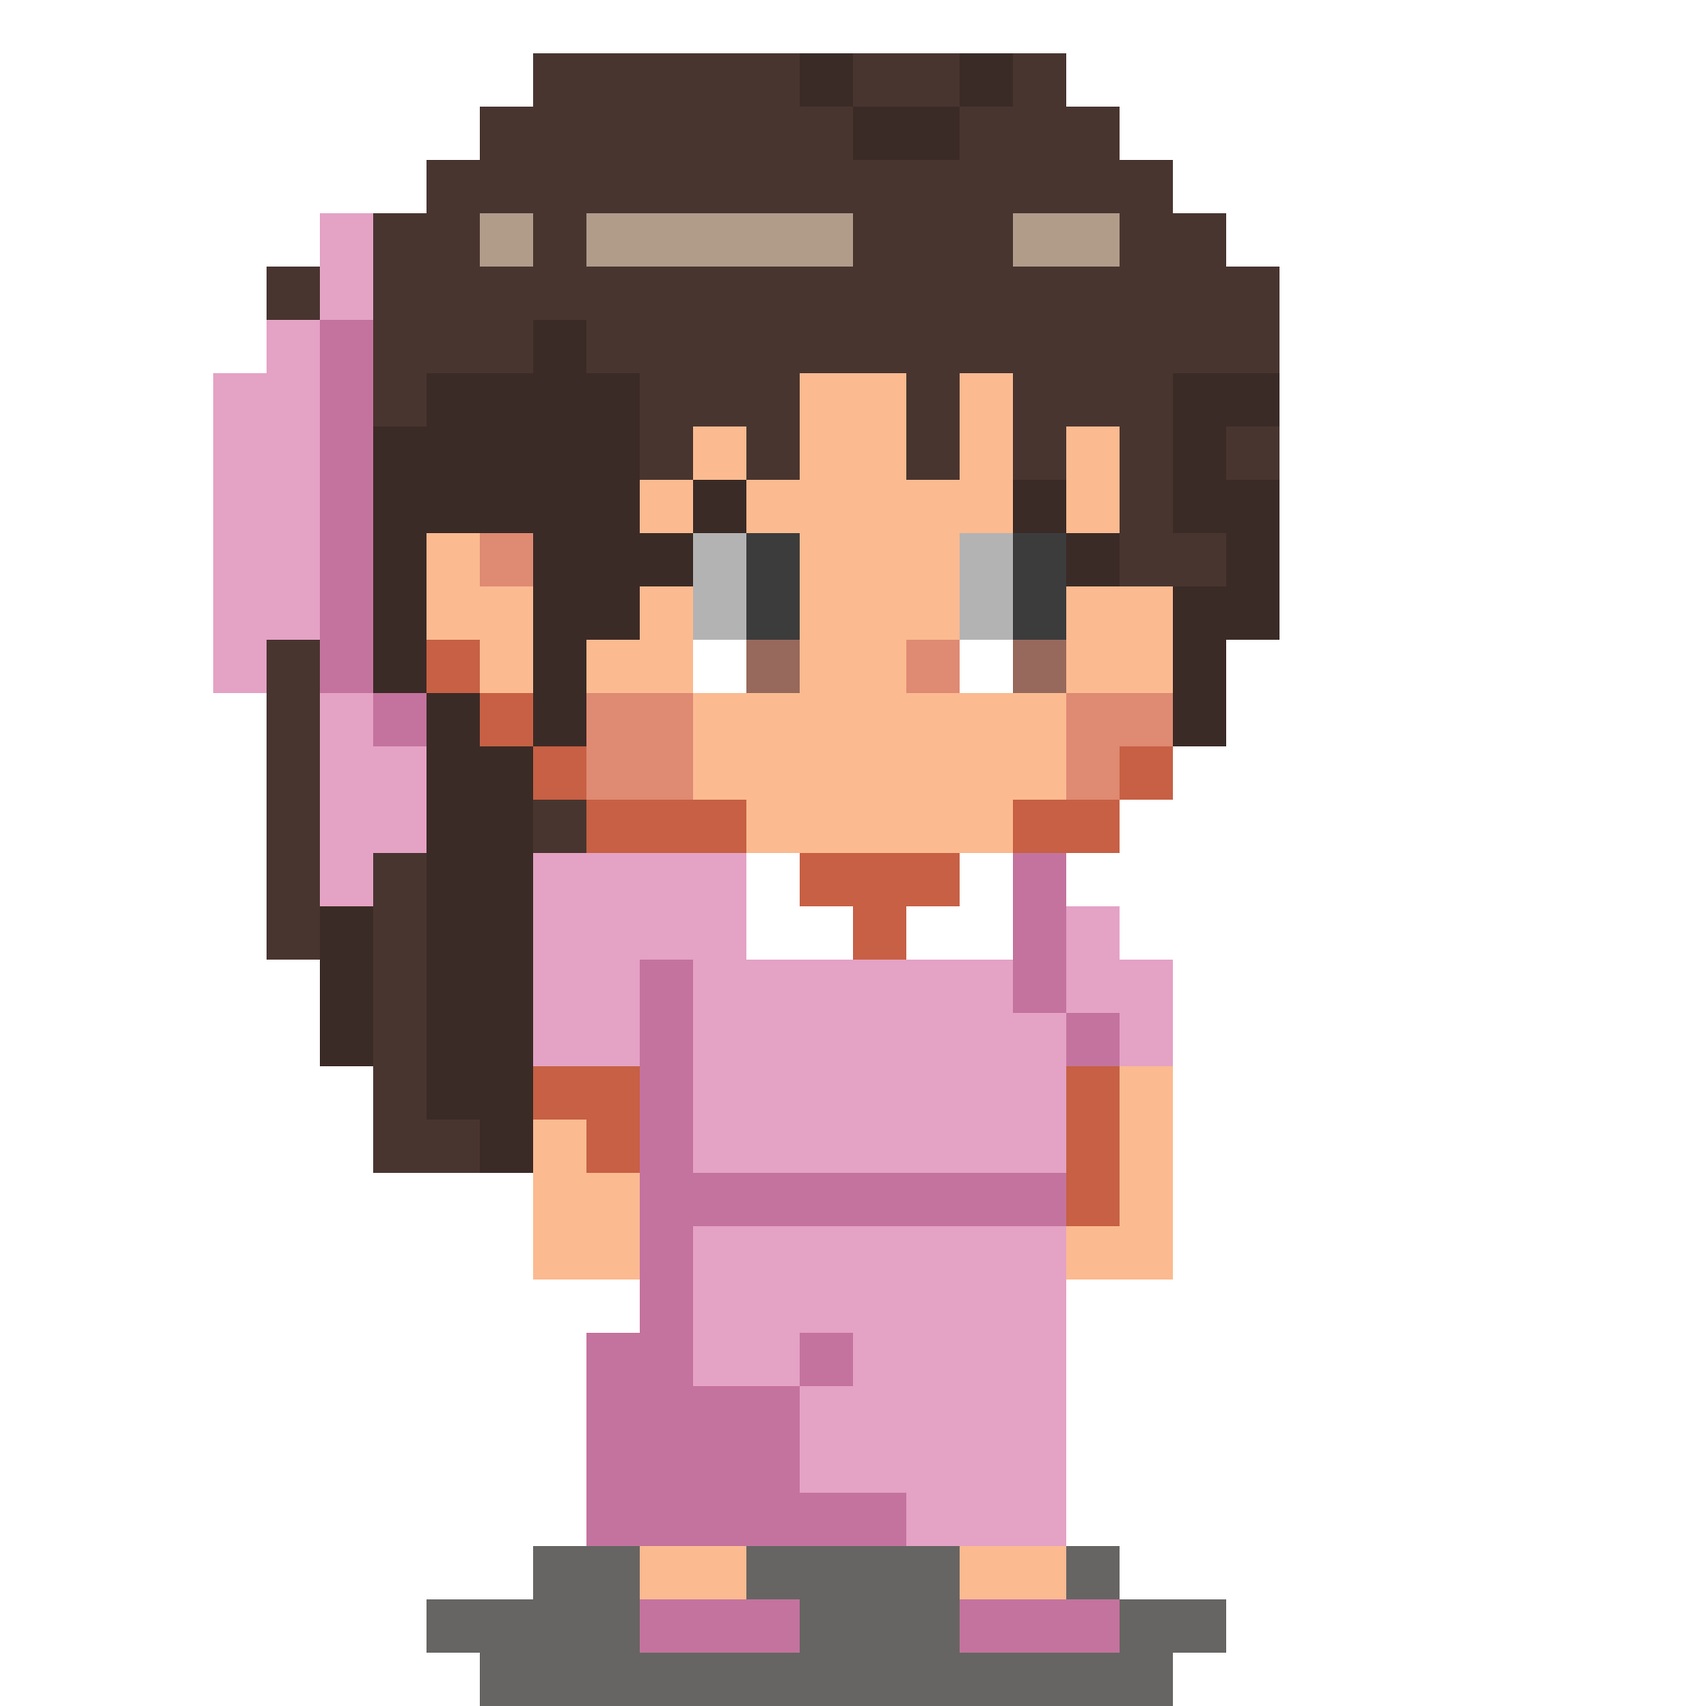
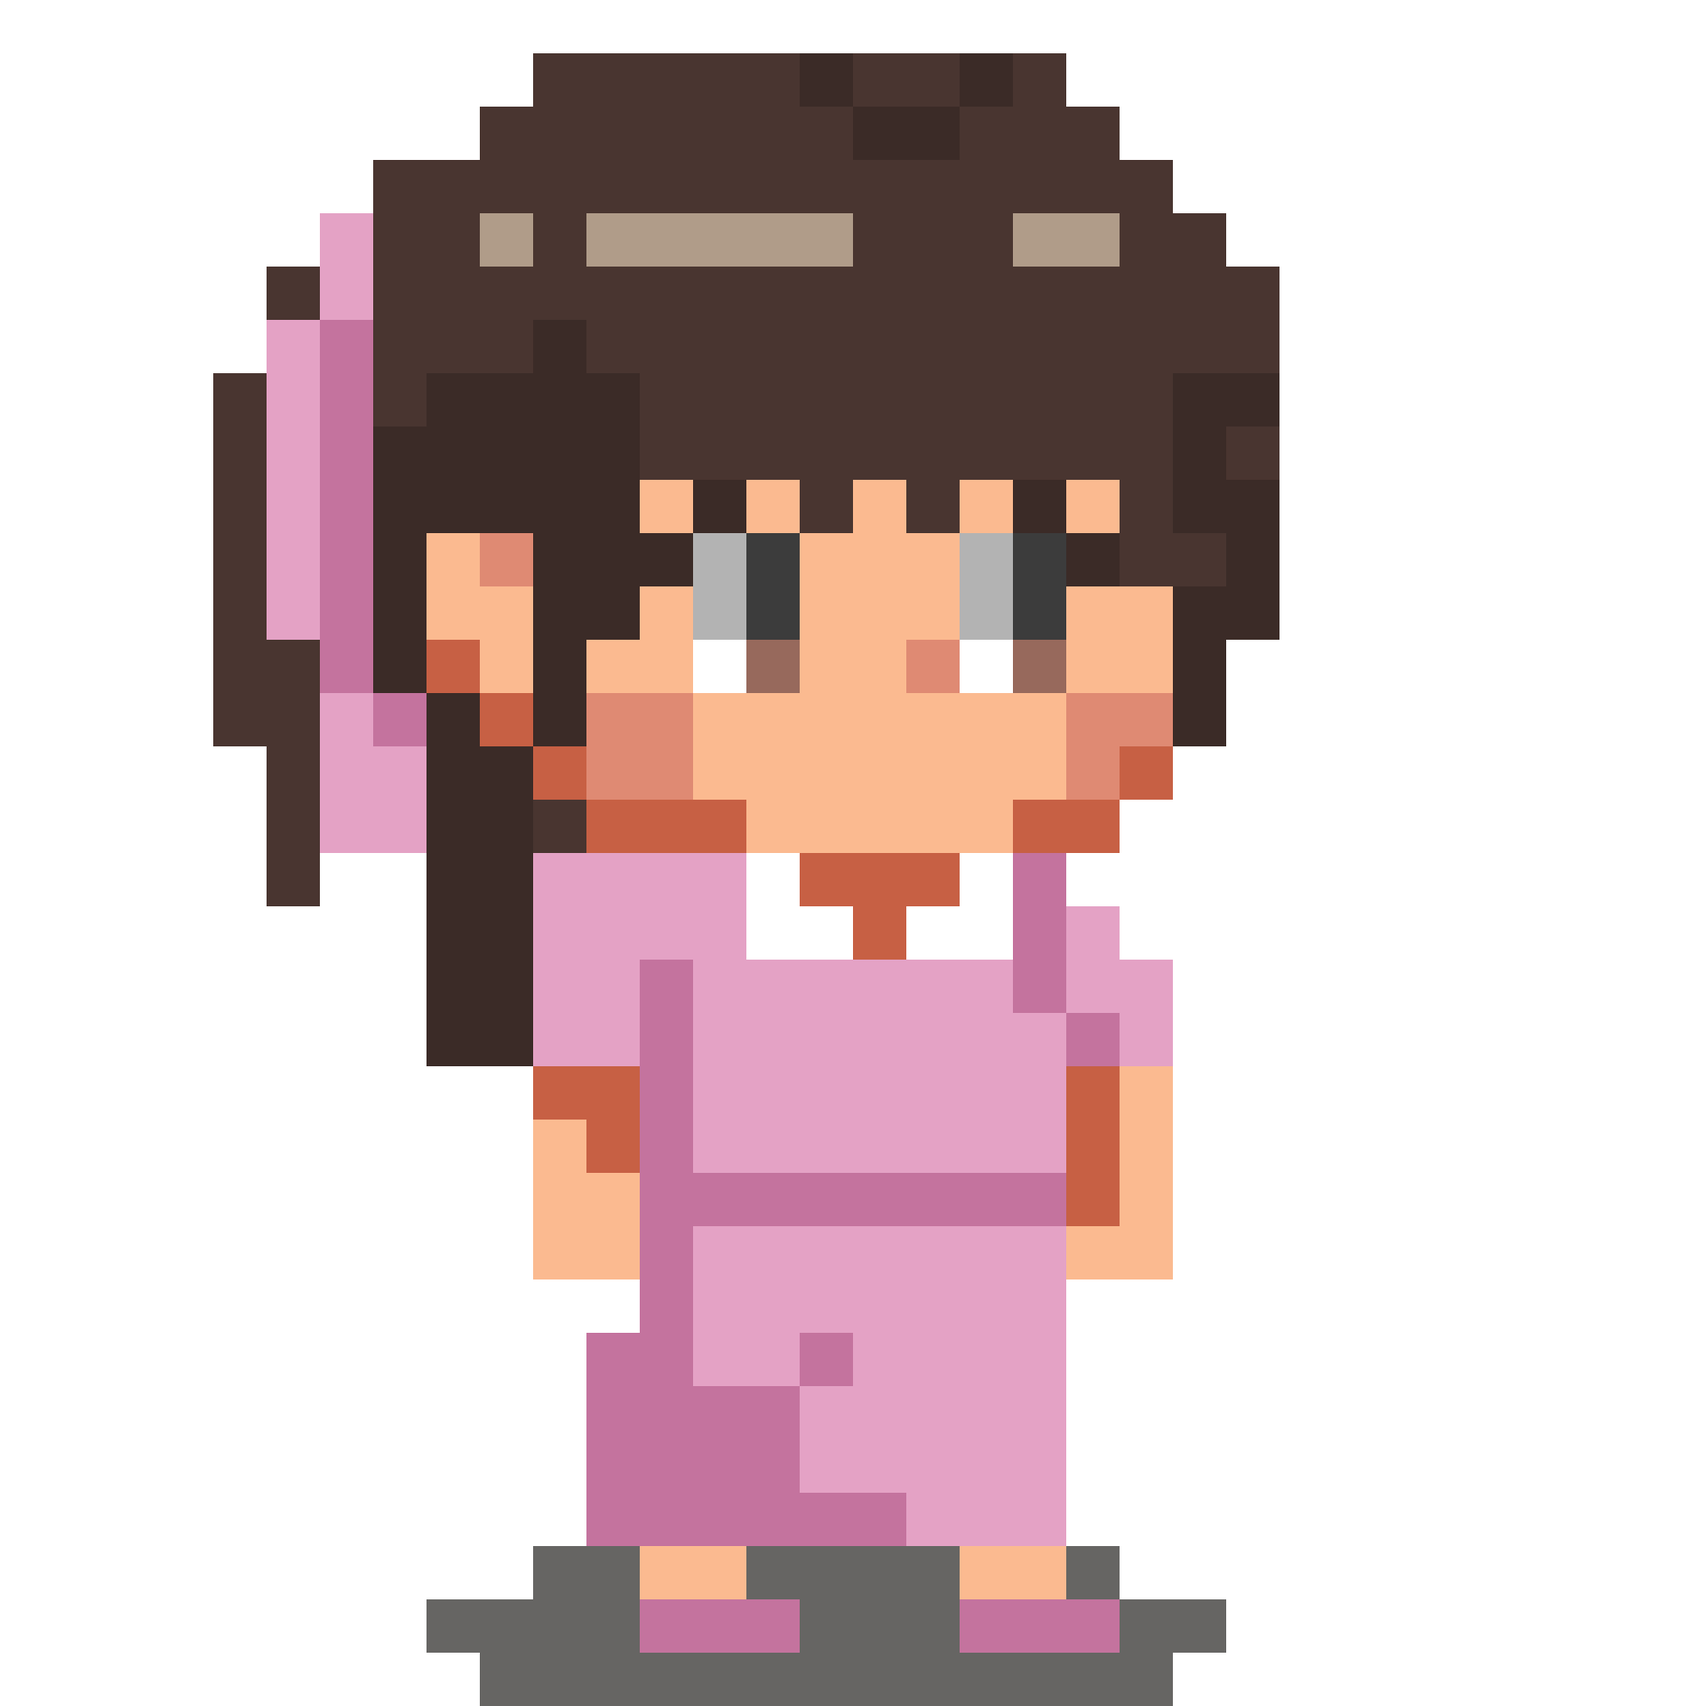
update song, handle click

diff --git a/Mob.java b/Mob.java
@@ -88,9 +88,9 @@ public class Mob {
         BufferedImage img = GameConstants.getImage(imageName);
         if (img != null) {
             g.drawImage(img, cx - s / 2, cy - s / 2 -7 , s, s, null);
-        } else {
+        } /*else {
             drawShape(g, cx, cy, r);
-        }
+        }*/
 
         Composite oldComposite = g.getComposite();
 
@@ -136,7 +136,7 @@ public class Mob {
         g.fillRect(cx - bw / 2, cy - r - 10, (int) (bw * ratio), 4);
 
         if (special || type.isBoss()) {                        // show names on bosses / special map
-            g.setFont(new Font("SansSerif", Font.BOLD, 11));
+            g.setFont(GameConstants.GAME_FONT.deriveFont(Font.PLAIN, 11f));
             FontMetrics fm = g.getFontMetrics();
             String n = getName();
             g.setColor(Color.BLACK);
@@ -145,9 +145,9 @@ public class Mob {
             g.drawString(n, cx - fm.stringWidth(n) / 2, cy - r - 15);
         }
     }
-
-    // default drawing when the PNG is missing
-    private void drawShape(Graphics2D g, int cx, int cy, int r) {
+/*
+// default drawing when the PNG is missing
+private void drawShape(Graphics2D g, int cx, int cy, int r) {
         Color body = type.getColor();
         switch (type) {
             case GOBLIN:
@@ -160,19 +160,19 @@ public class Mob {
                 g.drawOval(cx - r, cy - r, 2 * r, 2 * r);
                 eyes(g, cx, cy, r, Color.YELLOW);
                 break;
-            case WOLF:
-                g.setColor(body.darker());
-                g.fillPolygon(new int[]{cx - r + 1, cx - r / 2, cx - 2}, new int[]{cy - r / 2, cy - r - 7, cy - r / 2}, 3);
-                g.fillPolygon(new int[]{cx + 2, cx + r / 2, cx + r - 1}, new int[]{cy - r / 2, cy - r - 7, cy - r / 2}, 3);
-                g.setColor(body);
-                g.fillOval(cx - r - 3, cy - r + 3, 2 * r + 6, 2 * r - 4);
-                g.setColor(Color.BLACK);
-                g.drawOval(cx - r - 3, cy - r + 3, 2 * r + 6, 2 * r - 4);
-                eyes(g, cx, cy + 2, r, Color.RED);
-                break;
-            case BAT:
-                int flap = (int) (Math.sin(System.currentTimeMillis() / 70.0) * 5);
-                g.setColor(body.darker());
+                case WOLF:
+                    g.setColor(body.darker());
+                    g.fillPolygon(new int[]{cx - r + 1, cx - r / 2, cx - 2}, new int[]{cy - r / 2, cy - r - 7, cy - r / 2}, 3);
+                    g.fillPolygon(new int[]{cx + 2, cx + r / 2, cx + r - 1}, new int[]{cy - r / 2, cy - r - 7, cy - r / 2}, 3);
+                    g.setColor(body);
+                    g.fillOval(cx - r - 3, cy - r + 3, 2 * r + 6, 2 * r - 4);
+                    g.setColor(Color.BLACK);
+                    g.drawOval(cx - r - 3, cy - r + 3, 2 * r + 6, 2 * r - 4);
+                    eyes(g, cx, cy + 2, r, Color.RED);
+                    break;
+                    case BAT:
+                        int flap = (int) (Math.sin(System.currentTimeMillis() / 70.0) * 5);
+                        g.setColor(body.darker());
                 g.fillPolygon(new int[]{cx, cx - r - 9, cx - r - 3, cx - r / 2}, new int[]{cy, cy - 6 + flap, cy + 5, cy + 3}, 4);
                 g.fillPolygon(new int[]{cx, cx + r + 9, cx + r + 3, cx + r / 2}, new int[]{cy, cy - 6 + flap, cy + 5, cy + 3}, 4);
                 g.setColor(body);
@@ -183,61 +183,62 @@ public class Mob {
                 g.fillOval(cx - 4, cy - 3, 3, 3);
                 g.fillOval(cx + 1, cy - 3, 3, 3);
                 break;
-            case GOLEM:
-                g.setColor(body);
-                g.fillRoundRect(cx - r, cy - r, 2 * r, 2 * r, 10, 10);
-                g.setColor(body.darker().darker());
-                g.drawRoundRect(cx - r, cy - r, 2 * r, 2 * r, 10, 10);
-                g.drawLine(cx - r / 2, cy + r / 3, cx, cy + r / 2);
-                g.drawLine(cx + r / 3, cy - r / 2, cx + r / 2, cy);
-                eyes(g, cx, cy, r, Color.ORANGE);
-                break;
-            case MINI_BOSS:
-                g.setColor(Color.WHITE);
-                g.fillPolygon(new int[]{cx - r + 3, cx - r - 5, cx - r / 3}, new int[]{cy - r / 2, cy - r - 10, cy - r + 2}, 3);
-                g.fillPolygon(new int[]{cx + r - 3, cx + r + 5, cx + r / 3}, new int[]{cy - r / 2, cy - r - 10, cy - r + 2}, 3);
-                g.setColor(body);
-                g.fillOval(cx - r, cy - r, 2 * r, 2 * r);
-                g.setColor(Color.BLACK);
-                g.drawOval(cx - r, cy - r, 2 * r, 2 * r);
-                eyes(g, cx, cy, r, Color.YELLOW);
-                g.drawLine(cx - r / 2 - 3, cy - r / 2 - 2, cx - 3, cy - r / 3);
-                g.drawLine(cx + r / 2 + 3, cy - r / 2 - 2, cx + 3, cy - r / 3);
-                break;
-            case BOSS:
-                g.setColor(body);
-                g.fillOval(cx - r, cy - r, 2 * r, 2 * r);
-                g.setColor(Color.BLACK);
-                g.drawOval(cx - r, cy - r, 2 * r, 2 * r);
-                g.setColor(GameConstants.GOLD);
-                g.fillPolygon(new int[]{cx - r / 2 - 4, cx - r / 2, cx - r / 4, cx, cx + r / 4, cx + r / 2, cx + r / 2 + 4},
-                        new int[]{cy - r + 4, cy - r - 10, cy - r - 2, cy - r - 12, cy - r - 2, cy - r - 10, cy - r + 4}, 7);
-                eyes(g, cx, cy, r, Color.RED);
-                break;
-        }
-    }
-
-    private void eyes(Graphics2D g, int cx, int cy, int r, Color c) {
-        int e = Math.max(4, r / 3);
-        g.setColor(c);
-        g.fillOval(cx - r / 2 - e / 2 + 1, cy - r / 4 - e / 2, e, e);
-        g.fillOval(cx + r / 2 - e / 2 - 1, cy - r / 4 - e / 2, e, e);
-        g.setColor(Color.BLACK);
-        g.fillOval(cx - r / 2, cy - r / 4 - 1, 2, 2);
-        g.fillOval(cx + r / 2 - 2, cy - r / 4 - 1, 2, 2);
-    }
+                case GOLEM:
+                    g.setColor(body);
+                    g.fillRoundRect(cx - r, cy - r, 2 * r, 2 * r, 10, 10);
+                    g.setColor(body.darker().darker());
+                    g.drawRoundRect(cx - r, cy - r, 2 * r, 2 * r, 10, 10);
+                    g.drawLine(cx - r / 2, cy + r / 3, cx, cy + r / 2);
+                    g.drawLine(cx + r / 3, cy - r / 2, cx + r / 2, cy);
+                    eyes(g, cx, cy, r, Color.ORANGE);
+                    break;
+                    case MINI_BOSS:
+                        g.setColor(Color.WHITE);
+                        g.fillPolygon(new int[]{cx - r + 3, cx - r - 5, cx - r / 3}, new int[]{cy - r / 2, cy - r - 10, cy - r + 2}, 3);
+                        g.fillPolygon(new int[]{cx + r - 3, cx + r + 5, cx + r / 3}, new int[]{cy - r / 2, cy - r - 10, cy - r + 2}, 3);
+                        g.setColor(body);
+                        g.fillOval(cx - r, cy - r, 2 * r, 2 * r);
+                        g.setColor(Color.BLACK);
+                        g.drawOval(cx - r, cy - r, 2 * r, 2 * r);
+                        eyes(g, cx, cy, r, Color.YELLOW);
+                        g.drawLine(cx - r / 2 - 3, cy - r / 2 - 2, cx - 3, cy - r / 3);
+                        g.drawLine(cx + r / 2 + 3, cy - r / 2 - 2, cx + 3, cy - r / 3);
+                        break;
+                        case BOSS:
+                            g.setColor(body);
+                            g.fillOval(cx - r, cy - r, 2 * r, 2 * r);
+                            g.setColor(Color.BLACK);
+                            g.drawOval(cx - r, cy - r, 2 * r, 2 * r);
+                            g.setColor(GameConstants.GOLD);
+                            g.fillPolygon(new int[]{cx - r / 2 - 4, cx - r / 2, cx - r / 4, cx, cx + r / 4, cx + r / 2, cx + r / 2 + 4},
+                            new int[]{cy - r + 4, cy - r - 10, cy - r - 2, cy - r - 12, cy - r - 2, cy - r - 10, cy - r + 4}, 7);
+                            eyes(g, cx, cy, r, Color.RED);
+                            break;
+                        }
+                    }
+                    
+                    private void eyes(Graphics2D g, int cx, int cy, int r, Color c) {
+                        int e = Math.max(4, r / 3);
+                        g.setColor(c);
+                        g.fillOval(cx - r / 2 - e / 2 + 1, cy - r / 4 - e / 2, e, e);
+                        g.fillOval(cx + r / 2 - e / 2 - 1, cy - r / 4 - e / 2, e, e);
+                        g.setColor(Color.BLACK);
+                        g.fillOval(cx - r / 2, cy - r / 4 - 1, 2, 2);
+                        g.fillOval(cx + r / 2 - 2, cy - r / 4 - 1, 2, 2);
+                    }
+                    */
 }
 
-
+                
 // =====================================================================
 //  MobType : stats of every mob (normal name / professor name)
 //  (no HP drop any more -> base HP can't be recovered)
-// =====================================================================
+//=====================================================================
 enum MobType {
     //         normal       special          hp   spawnCD speed dmg coin  colour                   radius normalImg      specialImg
     GOBLIN   ("Goblin",    "AJ.Ming",        60,  1.0, 1.0,   5,  10, new Color(90,170,70),   13, "goblin",   "ajming"),
-    WOLF     ("Wolf",      "AJ.Konlakorn",      50,  1.0, 2.0,   5,  12, new Color(150,150,160), 13, "wolf",     "konlakorn"),
-    BAT      ("Bat",       "AJ.Tanassanee",  40,  0.8, 1.4,   5,   5, new Color(120,70,150),   9, "bat",      "ajtanassanee"),
+    WOLF     ("Wolf",      "AJ.Konlakorn",      50,  1.0, 2.0,   5,  12, new Color(150,150,160), 13, "wolf",     "ajkonlakorn"),
+    BAT      ("Bat",       "AJ.Tanasanee",  40,  0.8, 1.4,   5,   5, new Color(120,70,150),   9, "bat",      "ajtanasanee"),
     GOLEM    ("Golem",     "AJ.Tum",        220,  1.2, 0.6,  10,  25, new Color(130,110,90),  17, "golem",    "ajtum"),
     MINI_BOSS("Mini Boss", "AJ.Vasin",        1000,  1.5, 0.5,  50, 100, new Color(200,50,50),   20, "miniboss","ajvasin"),
     BOSS     ("Boss",      "AJ.Kob",       2800,  1.5, 0.5, 100, 250, new Color(90,40,120),   24, "boss",     "ajkob");

diff --git a/Projectile.java b/Projectile.java
@@ -86,7 +86,7 @@ public class Projectile {
          
         BufferedImage pjt = GameConstants.getImage(type.name().toLowerCase() + "_projectile.png");
         if (pjt != null) {
-        System.out.println("Projectile: " + type.name().toLowerCase() + "_projectile.png");
+        //System.out.println("Projectile: " + type.name().toLowerCase() + "_projectile.png");
         double angle = Math.atan2(ty - y, tx - x);
         AffineTransform old = g.getTransform();
         g.translate(ix, iy);
@@ -96,36 +96,38 @@ public class Projectile {
 
         g.setTransform(old);
         }
+        /*
         else{
-        switch (type) {
-            case ARCHER:
-                double a = Math.atan2(ty - y, tx - x);
-                g.setStroke(new BasicStroke(2));
-                g.setColor(new Color(110, 70, 30));
-                g.drawLine((int) (x - Math.cos(a) * 12), (int) (y - Math.sin(a) * 12), ix, iy);
-                g.setColor(Color.LIGHT_GRAY);
-                g.fillOval(ix - 2, iy - 2, 4, 4);
-                break;
+            switch (type) {
+        case ARCHER:
+            double a = Math.atan2(ty - y, tx - x);
+            g.setStroke(new BasicStroke(2));
+            g.setColor(new Color(110, 70, 30));
+            g.drawLine((int) (x - Math.cos(a) * 12), (int) (y - Math.sin(a) * 12), ix, iy);
+            g.setColor(Color.LIGHT_GRAY);
+            g.fillOval(ix - 2, iy - 2, 4, 4);
+            break;
             case CANNON:
                 g.setColor(Color.DARK_GRAY);
                 g.fillOval(ix - 6, iy - 6, 12, 12);
                 g.setColor(Color.BLACK);
                 g.drawOval(ix - 6, iy - 6, 12, 12);
                 break;
-            case ICE:
-                g.setColor(new Color(170, 235, 255));
-                g.fillPolygon(new int[]{ix, ix + 5, ix, ix - 5}, new int[]{iy - 6, iy, iy + 6, iy}, 4);
-                g.setColor(Color.WHITE);
-                g.drawPolygon(new int[]{ix, ix + 5, ix, ix - 5}, new int[]{iy - 6, iy, iy + 6, iy}, 4);
-                break;
-            case FIRE:
-                g.setColor(new Color(255, 90, 20));
-                g.fillOval(ix - 6, iy - 6, 12, 12);
-                g.setColor(Color.YELLOW);
-                g.fillOval(ix - 3, iy - 3, 6, 6);
-                break;
-            }
-        //g.setStroke(old);
-        }
+                case ICE:
+                    g.setColor(new Color(170, 235, 255));
+                    g.fillPolygon(new int[]{ix, ix + 5, ix, ix - 5}, new int[]{iy - 6, iy, iy + 6, iy}, 4);
+                    g.setColor(Color.WHITE);
+                    g.drawPolygon(new int[]{ix, ix + 5, ix, ix - 5}, new int[]{iy - 6, iy, iy + 6, iy}, 4);
+                    break;
+                    case FIRE:
+                        g.setColor(new Color(255, 90, 20));
+                        g.fillOval(ix - 6, iy - 6, 12, 12);
+                        g.setColor(Color.YELLOW);
+                        g.fillOval(ix - 3, iy - 3, 6, 6);
+                        break;
+                    }
+                    //g.setStroke(old);
+                }
+                */
     }
 }

diff --git a/SoundManager.java b/SoundManager.java
@@ -18,7 +18,7 @@ public class SoundManager {
     private static final int SINE = 0, SQUARE = 1, NOISE = 2, REST = -99;
     private static final Random rand = new Random();
 
-    private static boolean audioOn = true;
+    private static boolean audioOn = true, playingMenuBGM = false;
     private static int bgmVolume = 50, sfxVolume = 70, currentSong = 0;
     private static Clip bgmClip = null;
     private static final HashMap<String, Long> lastPlayed = new HashMap<String, Long>();
@@ -60,9 +60,9 @@ public class SoundManager {
 
     public static synchronized void playMenuBGM() {
         stopBGM();
+        playingMenuBGM = true;
 
         if (!audioOn) return;
-    
         try {
             Clip clip = AudioSystem.getClip();
             
@@ -71,14 +71,10 @@ public class SoundManager {
         );
 
         if (f.exists()) {
-            clip.open(
-                AudioSystem.getAudioInputStream(f)
-            );
+            clip.open(AudioSystem.getAudioInputStream(f));
             
             bgmClip = clip;
-            
             setGain(bgmClip, bgmVolume);
-            
             bgmClip.loop(
                 Clip.LOOP_CONTINUOUSLY
             );
@@ -134,7 +130,13 @@ public class SoundManager {
     // ================= settings =================
     public static synchronized void setAudioOn(boolean on) {
         audioOn = on;
-        if (on) playBGM(currentSong); else stopBGM();
+        if (!audioOn) {
+            stopBGM();
+        }
+        else{
+            if(playingMenuBGM)  playMenuBGM();
+            else                playBGM(currentSong);
+        }
     }
     public static synchronized void setBgmVolume(int v) { bgmVolume = v; setGain(bgmClip, v); }
     public static void setSfxVolume(int v) { sfxVolume = v; }

diff --git a/Effect.java b/Effect.java
@@ -100,7 +100,7 @@ public class Effect {
             g.setComposite(AlphaComposite.getInstance(AlphaComposite.SRC_OVER,0.7f));
             g.drawImage(impact, ix - size / 2, iy - size / 2, size, size, null);
             g.setComposite(oldComposite);
-            System.out.println("Drawing impact effect for available image");
+            //System.out.println("Drawing impact effect for available image");
         } /*else{
             System.out.println("Drawing impact effect for missing image");
             int r = (int) (radius * (0.3 + 0.7 * p));
@@ -123,7 +123,7 @@ public class Effect {
     }
 
     private void drawCenteredText(Graphics2D g, int cx, int cy, int size, double a) {
-        g.setFont(new Font("SansSerif", Font.BOLD, size));
+        g.setFont(GameConstants.HEADER_FONT);
         FontMetrics fm = g.getFontMetrics();
         int tx = cx - fm.stringWidth(text) / 2, ty = cy + fm.getAscent() / 2 - 2;
         g.setColor(fade(Color.BLACK, a));

diff --git a/GamePanel.java b/GamePanel.java
@@ -259,10 +259,8 @@ public class GamePanel extends JPanel implements Runnable {
             if (gameOver || paused) return;
             Tower t = towerGrid[col][row];
             if (waveRunning) {                       // no changes during a wave
-                if (t != null || selectedType != null || sellMode) {
-                    popup(px, py, "Wave in progress!", GameConstants.RED);
-                    SoundManager.playSFX("error");
-                }
+                popup(px, py, "Wave in progress!", GameConstants.RED);
+                SoundManager.playSFX("error");
                 return;
             }
             if (sellMode) sellTower(t, col, row, px, py);

diff --git a/GetReadyFrame.java b/GetReadyFrame.java
@@ -40,6 +40,7 @@ public class GetReadyFrame extends JFrame {
 
         updatePreview();
         GameConstants.setupFrame(this, root, menu);
+         SoundManager.playBGM(0);
     }
 
     // ================= sections =================
